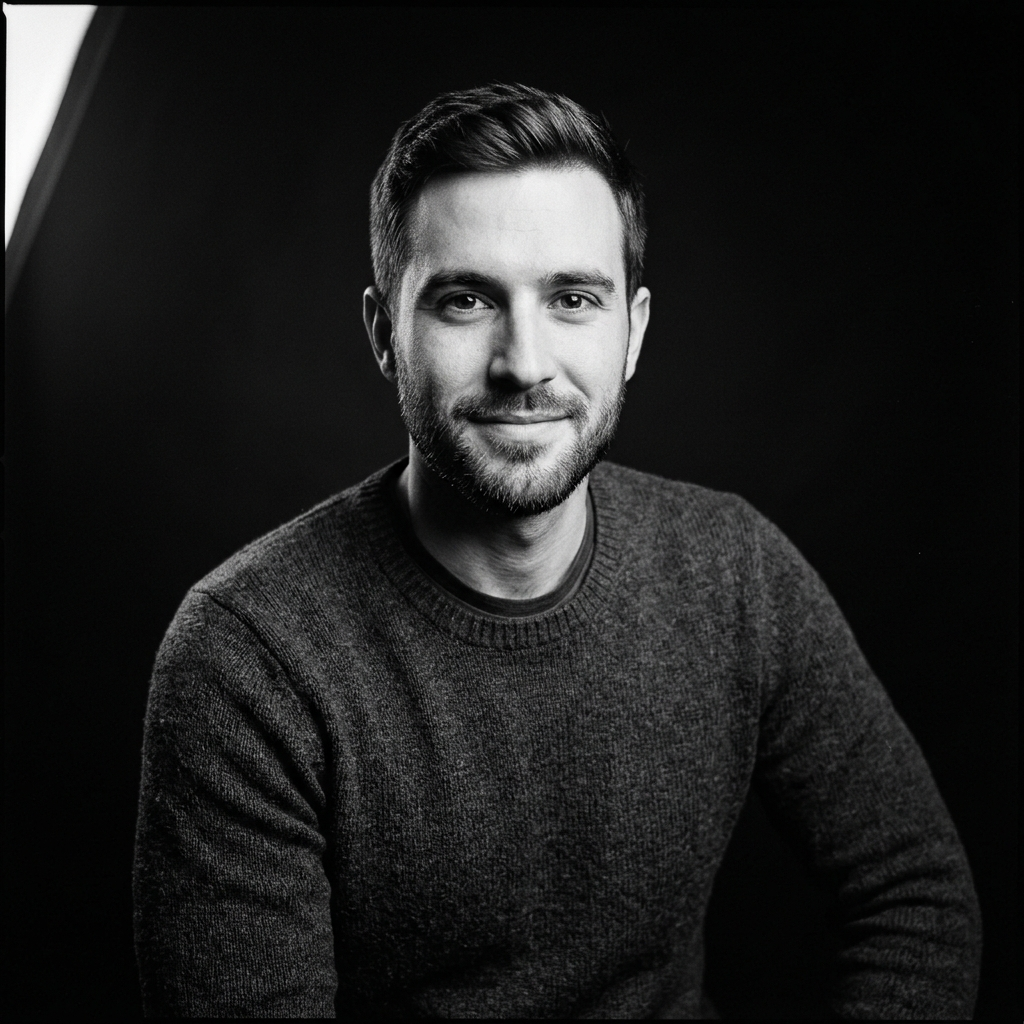
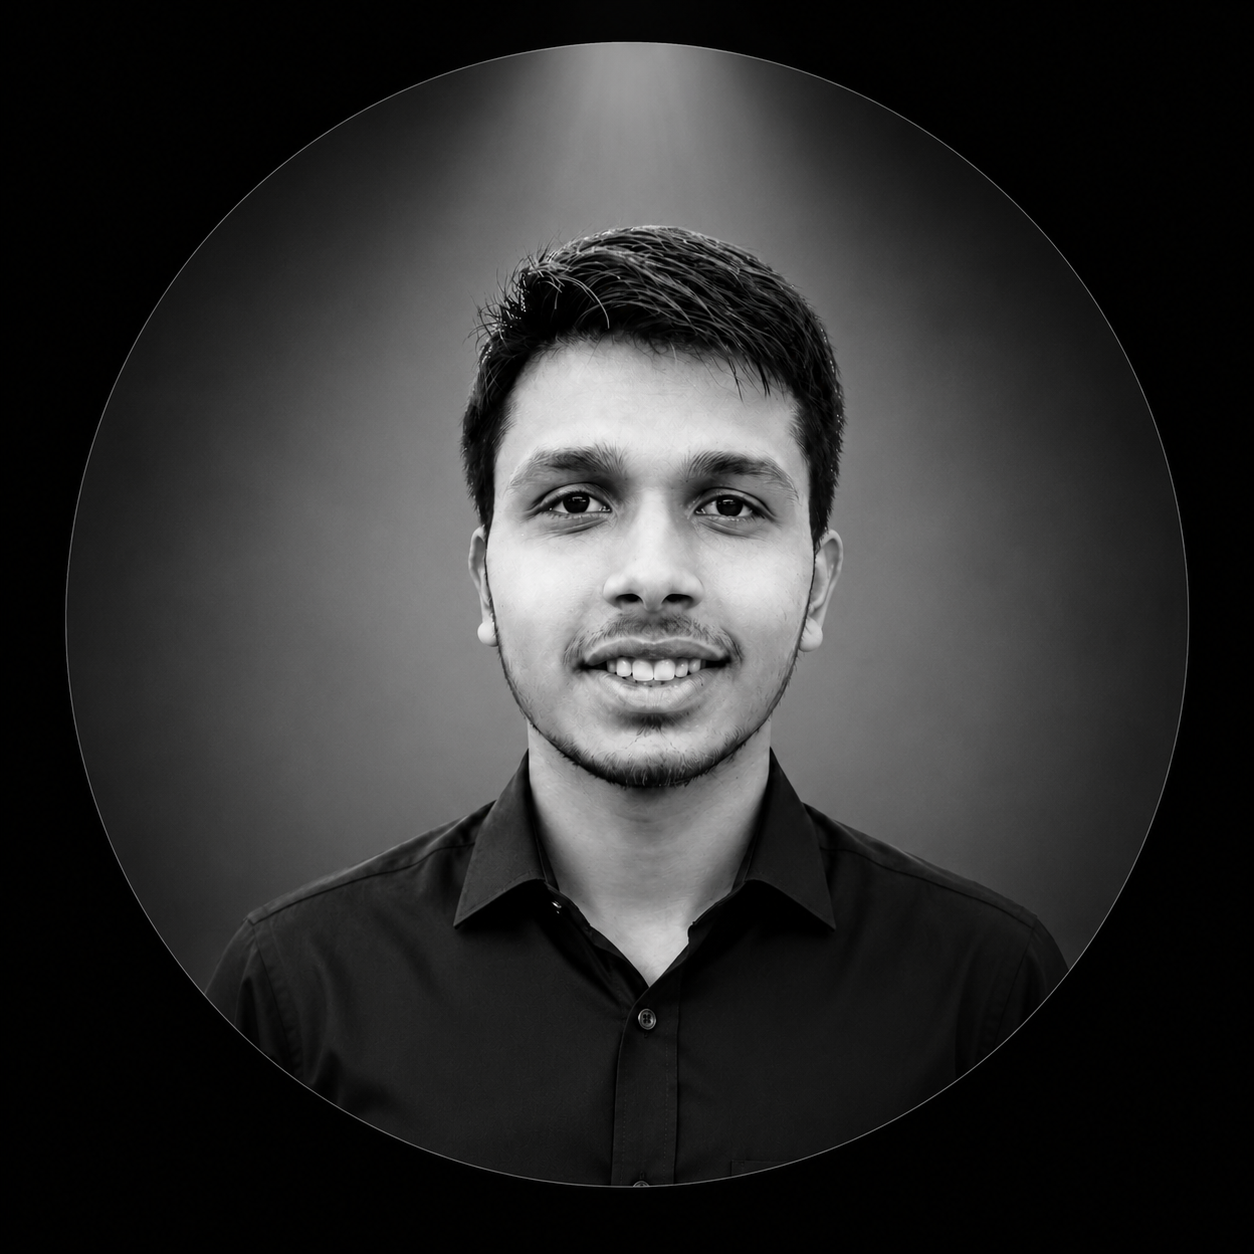
style(about): update portrait image and remove CSS filter overrides

diff --git a/components/sections/about/profile-orbit.tsx b/components/sections/about/profile-orbit.tsx
@@ -225,7 +225,7 @@ export const ProfileOrbit: React.FC = () => {
               alt="Vicky Raut Professional Portrait"
               fill
               sizes="(max-width: 640px) 88px, 104px"
-              className="object-cover filter grayscale contrast-110 brightness-105 transition-all duration-500 group-hover:scale-110"
+              className="object-cover object-center transition-transform duration-500 group-hover:scale-110"
               priority
             />
           </div>
